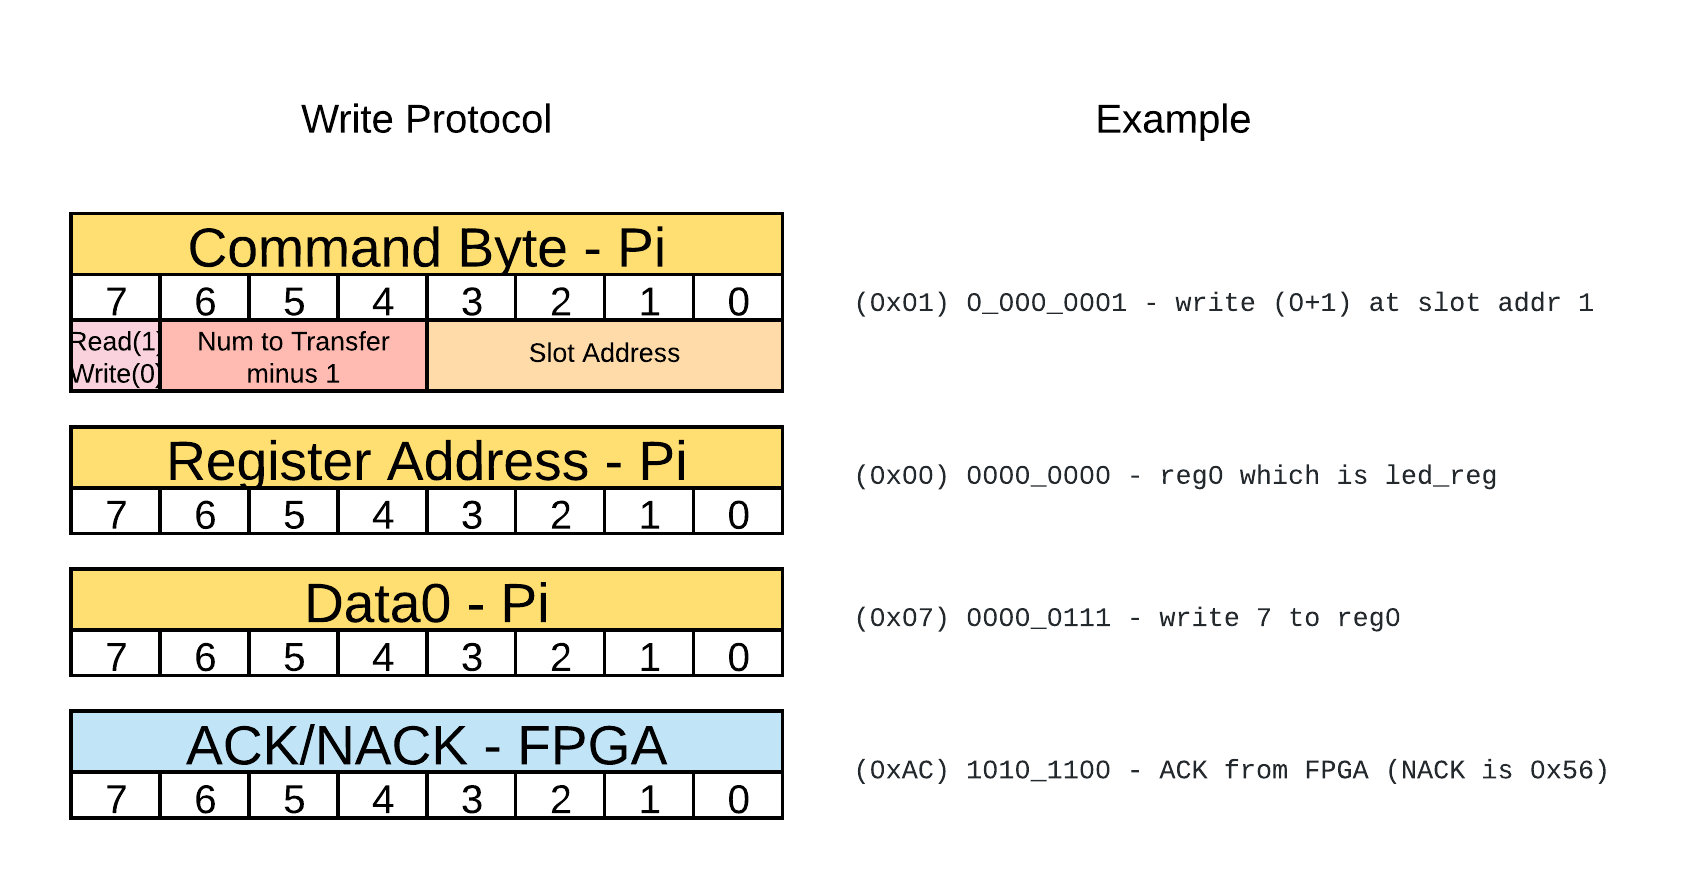
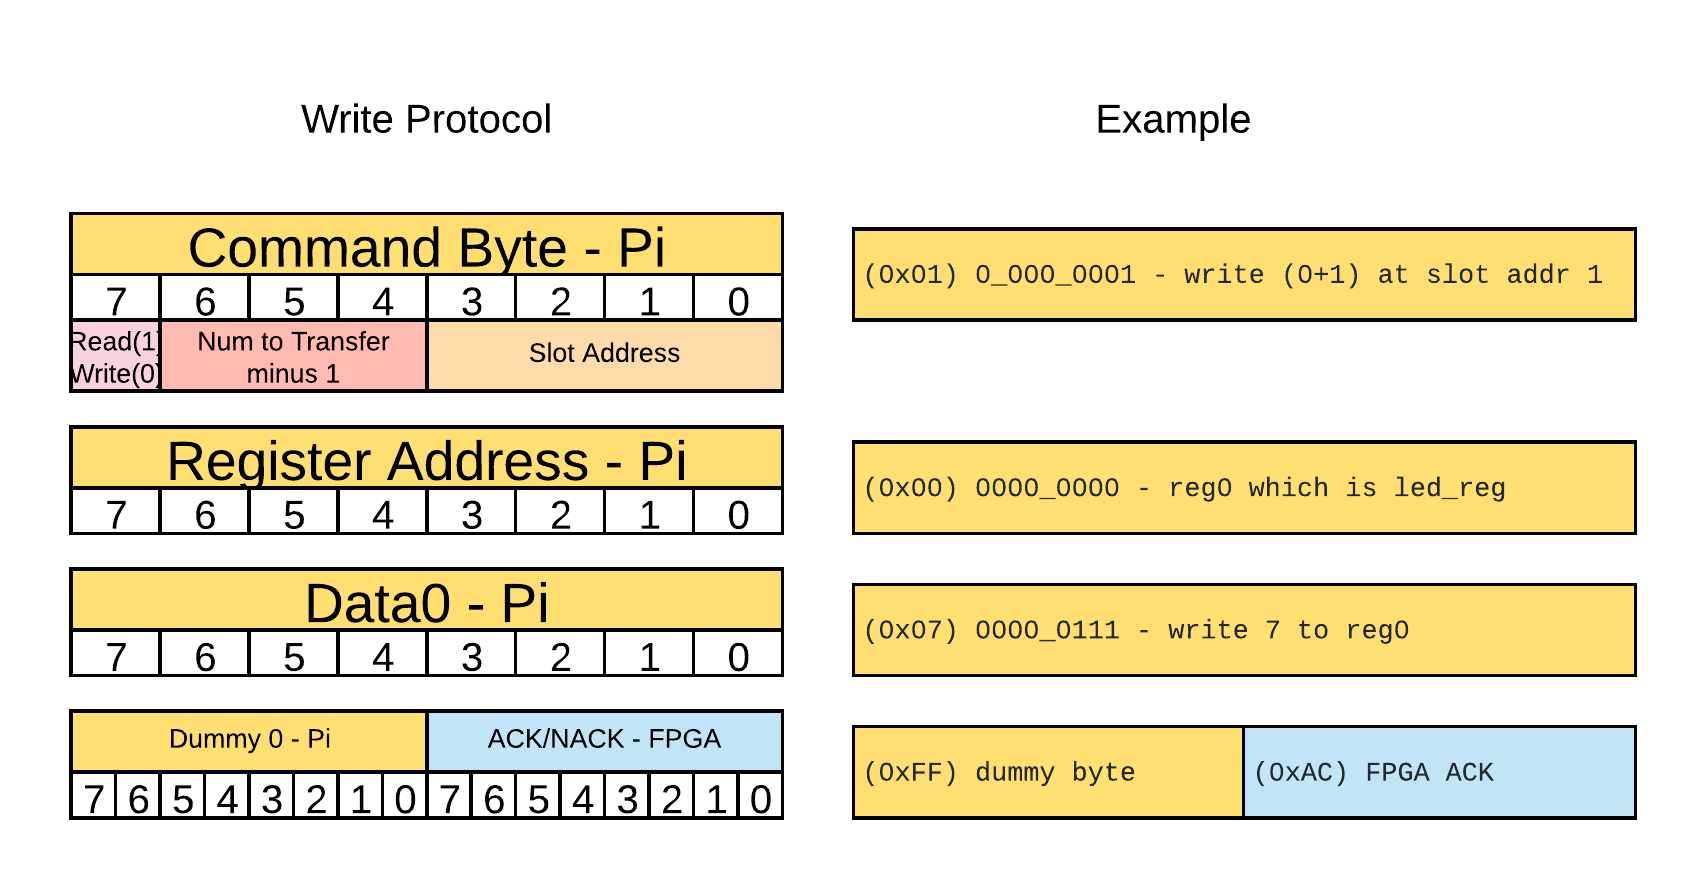
Added raw read/write info.

diff --git a/hbafpga_talk.md b/hbafpga_talk.md
@@ -48,6 +48,9 @@ HBA Peripheral registers.  So the Raspberry Pi is a Master on the HBA Bus.
   * The upper 4 bits select the desired peripheral slot.  There are 16 possible slots.
   * The lower 8 bits select the desired peripheral register.  There are 256 possible registers.
 
+* __Note__: To receive a byte from the FPGA the Pi must send a dummy byte.
+* The serial interface is full duplex.
+
 ---
 
 # Write Protocol
@@ -59,7 +62,7 @@ HBA Peripheral registers.  So the Raspberry Pi is a Master on the HBA Bus.
   * 3:0 - Peripheral Slot Address
 * Starting Peripheral Register Address. Auto increments if multiple data.
 * Data0 .. DataN : The data to write.
-* ACK/NACK : From FPGA.  ACK indicates successful write of data.
+* ACK/NACK : Pi sends dummy byte. FPGA sends ACK, indicates successful write of data.
 
 ---
 
@@ -78,6 +81,34 @@ HBA Peripheral registers.  So the Raspberry Pi is a Master on the HBA Bus.
 ---
 
 # Simple demo using raw read/write
+
+* Usually use HBA resources for accessing peripherals
+* However it is possible to echo all the byte received from the FPGA
+* Useful for development and debug
+* In one robot terminal type:
+```
+hbacat serial_fpga rawin
+```
+
+* It is also possible to send raw bytes to the FPGA
+* Example 1 write 7 to leds
+  * Slot 1 peripheral, Reg0 to the value 07
+  * This should be the hba_basicio led register
+* In another robot terminal type:
+```
+hbaset serial_fpga rawout 01 00 07 ff
+
+```
+
+* Example 2 read button value
+  * Slot 1 peripheral, Reg1 (read)
+  * This is the hba_basicio button_in register
+* Type
+```
+hbaset serial_fpga rawout 81 01 ff ff ff
+
+```
+
 
 ---
 
